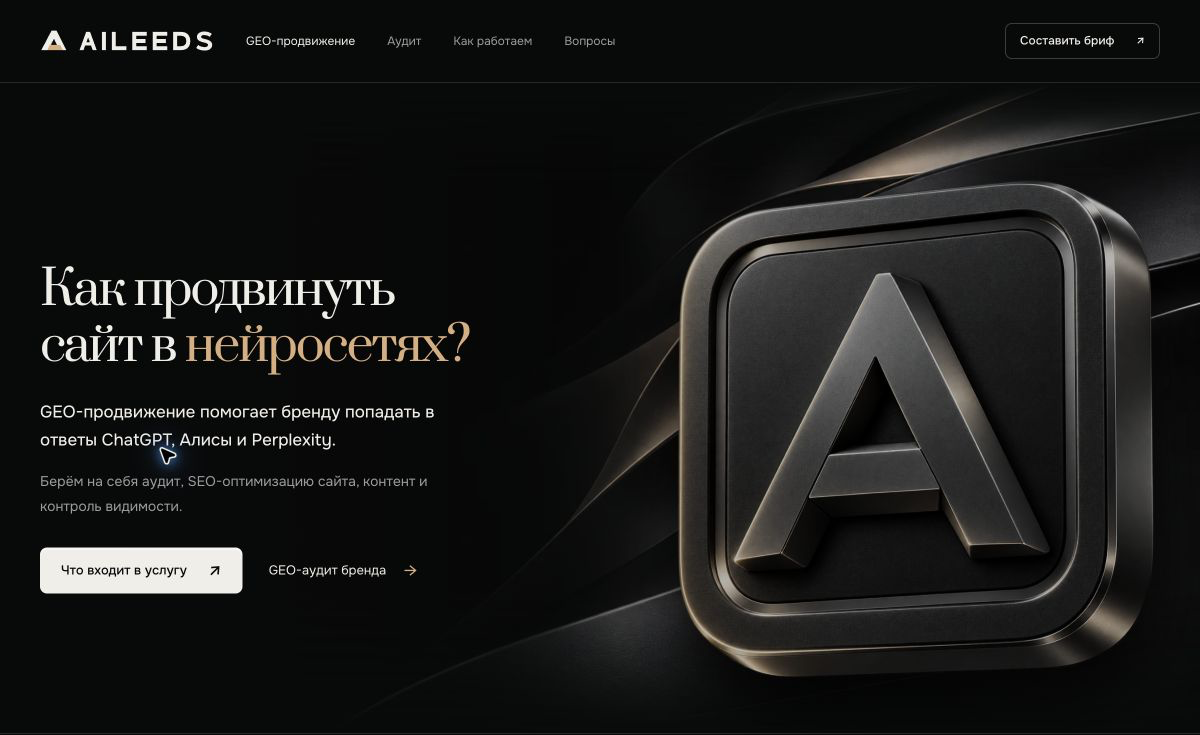
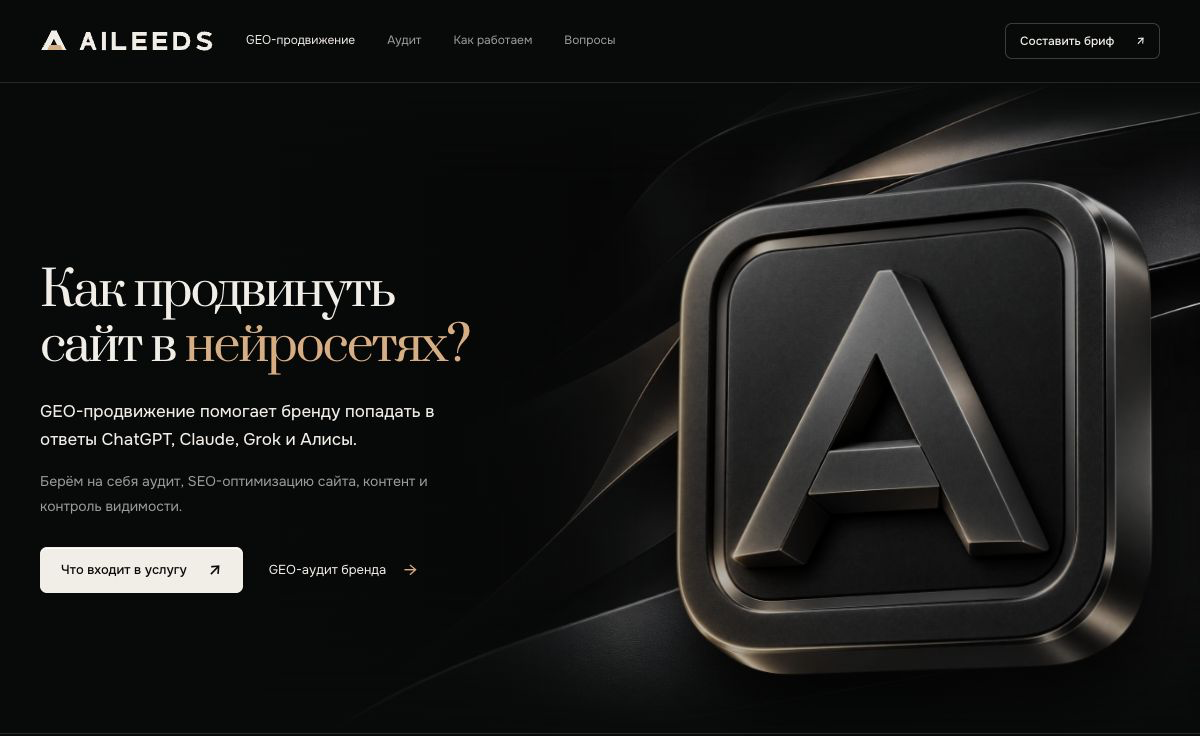
fix(site): Replace Perplexity with Claude and Grok
Update platform marks, service copy, structured data and social previews.
Keep publication dates and refresh modification dates on the changed service pages.

diff --git a/index.html b/index.html
@@ -3,14 +3,14 @@
   <head>
     <meta charset="utf-8" />
     <meta name="datePublished" content="2026-10-07" />
-    <meta name="dateModified" content="2026-11-02" />
+    <meta name="dateModified" content="2026-11-04" />
     <link rel="describedby" href="https://egi411.github.io/geo-audit/llms.txt" type="text/plain" />
     <meta name="author" content="Редакция AiLeeds" />
     <meta name="viewport" content="width=device-width,initial-scale=1" />
     <title>Как продвинуть сайт в нейросетях? GEO | AiLeeds</title>
     <meta
       name="description"
-      content="GEO-продвижение сайта и бренда в ChatGPT, Алисе, Perplexity и AI-поиске. Аудит, SEO-оптимизация, экспертный контент, источники и мониторинг видимости — AiLeeds."
+      content="GEO-продвижение сайта и бренда в ChatGPT, Claude, Grok, Алисе и AI-поиске. Аудит, SEO-оптимизация, экспертный контент, источники и мониторинг видимости — AiLeeds."
     />
     <meta name="theme-color" content="#080909" />
     <meta name="robots" content="index,follow,max-image-preview:large" />
@@ -21,7 +21,7 @@
     />
     <meta
       property="og:description"
-      content="GEO-продвижение сайта и бренда в ChatGPT, Алисе, Perplexity и AI-поиске. Аудит, SEO-оптимизация, экспертный контент, источники и мониторинг видимости — AiLeeds."
+      content="GEO-продвижение сайта и бренда в ChatGPT, Claude, Grok, Алисе и AI-поиске. Аудит, SEO-оптимизация, экспертный контент, источники и мониторинг видимости — AiLeeds."
     />
     <meta property="og:type" content="website" />
     <meta property="og:locale" content="ru_RU" />
@@ -29,7 +29,7 @@
     <meta property="og:url" content="https://egi411.github.io/geo-audit/" />
     <meta
       property="og:image"
-      content="https://egi411.github.io/geo-audit/assets/social.png?v=ec5293cd07e1"
+      content="https://egi411.github.io/geo-audit/assets/social.png?v=842f07d34e5e"
     />
     <meta name="twitter:card" content="summary_large_image" />
     <link
@@ -64,14 +64,14 @@
             "@id": "https://egi411.github.io/geo-audit/#page",
             "url": "https://egi411.github.io/geo-audit/",
             "name": "Как продвинуть сайт в нейросетях? GEO | AiLeeds",
-            "description": "GEO-продвижение сайта и бренда в ChatGPT, Алисе, Perplexity и AI-поиске. Аудит, SEO-оптимизация, экспертный контент, источники и мониторинг видимости — AiLeeds.",
+            "description": "GEO-продвижение сайта и бренда в ChatGPT, Claude, Grok, Алисе и AI-поиске. Аудит, SEO-оптимизация, экспертный контент, источники и мониторинг видимости — AiLeeds.",
             "inLanguage": "ru-RU",
             "isPartOf": {
               "@id": "https://egi411.github.io/geo-audit/#website"
             },
             "author": { "@id": "https://egi411.github.io/geo-audit/#org" },
             "publisher": { "@id": "https://egi411.github.io/geo-audit/#org" },
-            "dateModified": "2026-11-02",
+            "dateModified": "2026-11-04",
             "datePublished": "2026-10-07"
           },
           {
@@ -79,7 +79,7 @@
             "name": "GEO-продвижение сайта и бренда",
             "url": "https://egi411.github.io/geo-audit/",
             "serviceType": "Generative Engine Optimization",
-            "description": "GEO-продвижение сайта и бренда в ChatGPT, Алисе, Perplexity и AI-поиске. Аудит, SEO-оптимизация, экспертный контент, источники и мониторинг видимости — AiLeeds.",
+            "description": "GEO-продвижение сайта и бренда в ChatGPT, Claude, Grok, Алисе и AI-поиске. Аудит, SEO-оптимизация, экспертный контент, источники и мониторинг видимости — AiLeeds.",
             "provider": { "@id": "https://egi411.github.io/geo-audit/#org" }
           },
           {
@@ -195,8 +195,8 @@
           <div class="hero-copy">
             <h1>Как продвинуть<br />сайт в <span>нейросетях?</span></h1>
             <p class="short-answer">
-              GEO-продвижение помогает бренду попадать в ответы ChatGPT, Алисы и
-              Perplexity.
+              GEO-продвижение помогает бренду попадать в ответы ChatGPT, Claude,
+              Grok и Алисы.
             </p>
             <p class="lead">
               Берём на себя аудит, SEO-оптимизацию сайта, контент и контроль
@@ -241,12 +241,21 @@
             ><span class="model-name"
               ><img
                 class="brand-mark"
-                src="assets/brands/perplexity.svg"
+                src="assets/brands/claude.svg"
                 width="28"
                 height="28"
-                alt="Логотип Perplexity"
+                alt="Логотип Claude"
                 aria-hidden="true"
-              /><span>Perplexity</span></span
+              /><span>Claude</span></span
+            ><span class="model-name"
+              ><img
+                class="brand-mark brand-mono"
+                src="assets/brands/grok.svg"
+                width="28"
+                height="28"
+                alt="Логотип Grok"
+                aria-hidden="true"
+              /><span>Grok</span></span
             ><span class="model-name"
               ><img
                 class="brand-mark"
@@ -511,21 +520,29 @@
                   aria-hidden="true"
                 /><img
                   class="brand-mark"
-                  src="assets/brands/perplexity.svg"
+                  src="assets/brands/claude.svg"
                   width="28"
                   height="28"
-                  alt="Логотип Perplexity"
+                  alt="Логотип Claude"
+                  aria-hidden="true"
+                /><img
+                  class="brand-mark brand-mono"
+                  src="assets/brands/grok.svg"
+                  width="28"
+                  height="28"
+                  alt="Логотип Grok"
                   aria-hidden="true"
                 />
               </div>
-              <h3>Как работать с ChatGPT и Perplexity?</h3>
+              <h3>Как продвигать бренд в ChatGPT, Claude и Grok?</h3>
               <p class="short-answer">
-                Разбирать рекомендации, цитируемые страницы и вопросы
-                покупателей.
+                Проверять упоминания бренда, рекомендации и ответы на
+                вопросы покупателей.
               </p>
               <p>
-                Выявляем страницы, на которые ссылаются ассистенты, и вопросы,
-                по которым бренд отсутствует в рекомендациях.
+                Находим запросы, по которым бренд отсутствует или описан
+                неточно. Если ответ содержит ссылки, анализируем источники
+                и готовим изменения для страниц сайта.
               </p>
             </article>
             <article class="platform-card reveal">
@@ -852,7 +869,7 @@
             >Сайт опубликован
             <time itemprop="datePublished" datetime="2026-10-07">7 октября 2026</time></span
           ><span
-            >Обновлено <time itemprop="dateModified" datetime="2026-11-02">2 ноября 2026</time></span
+            >Обновлено <time itemprop="dateModified" datetime="2026-11-04">4 ноября 2026</time></span
           >
         </div>
         <div class="footer-bottom">

diff --git a/audit/index.html b/audit/index.html
@@ -3,7 +3,7 @@
   <head>
     <meta charset="utf-8" />
     <meta name="datePublished" content="2026-11-02" />
-    <meta name="dateModified" content="2026-11-02" />
+    <meta name="dateModified" content="2026-11-04" />
     <link rel="describedby" href="https://egi411.github.io/geo-audit/llms.txt" type="text/plain" />
     <meta name="author" content="Редакция AiLeeds" />
     <meta name="viewport" content="width=device-width,initial-scale=1" />
@@ -32,7 +32,7 @@
     />
     <meta
       property="og:image"
-      content="https://egi411.github.io/geo-audit/assets/social.png?v=ec5293cd07e1"
+      content="https://egi411.github.io/geo-audit/assets/social.png?v=842f07d34e5e"
     />
     <meta name="twitter:card" content="summary_large_image" />
     <link
@@ -74,7 +74,7 @@
             },
             "author": { "@id": "https://egi411.github.io/geo-audit/#org" },
             "publisher": { "@id": "https://egi411.github.io/geo-audit/#org" },
-            "dateModified": "2026-11-02",
+            "dateModified": "2026-11-04",
             "dateCreated": "2026-11-01",
             "datePublished": "2026-11-02"
           },
@@ -102,7 +102,7 @@
                 "name": "Какие нейросети вы проверяете?",
                 "acceptedAnswer": {
                   "@type": "Answer",
-                  "text": "Набор согласуем под рынок и аудиторию: например, ChatGPT, Perplexity, Gemini, Алису и GigaChat. В отчёте фиксируем доступные версии и режимы. Цитаты и домены собираем только там, где они действительно показаны."
+                  "text": "Набор согласуем под рынок и аудиторию: например, ChatGPT, Claude, Grok, Gemini, Алису и GigaChat. В отчёте фиксируем доступные версии и режимы. Цитаты и домены собираем только там, где они действительно показаны."
                 }
               },
               {
@@ -256,7 +256,7 @@
               Карту видимости сайта и бренда, ошибки в ответах и план изменений.
             </p>
             <p class="lead">
-              Сравним ответы ChatGPT, Алисы и Perplexity по запросам ваших
+              Сравним ответы ChatGPT, Claude, Grok и Алисы по запросам ваших
               клиентов. Передадим отчёт вместе с исходными ответами.
             </p>
             <div class="actions">
@@ -298,12 +298,21 @@
             ><span class="model-name"
               ><img
                 class="brand-mark"
-                src="../assets/brands/perplexity.svg"
+                src="../assets/brands/claude.svg"
                 width="28"
                 height="28"
-                alt="Логотип Perplexity"
+                alt="Логотип Claude"
                 aria-hidden="true"
-              /><span>Perplexity</span></span
+              /><span>Claude</span></span
+            ><span class="model-name"
+              ><img
+                class="brand-mark brand-mono"
+                src="../assets/brands/grok.svg"
+                width="28"
+                height="28"
+                alt="Логотип Grok"
+                aria-hidden="true"
+              /><span>Grok</span></span
             ><span class="model-name"
               ><img
                 class="brand-mark"
@@ -716,7 +725,7 @@
               <summary>Какие нейросети вы проверяете?</summary>
               <p>
                 Набор согласуем под рынок и аудиторию: например, ChatGPT,
-                Perplexity, Gemini, Алису и GigaChat. В отчёте фиксируем
+                Claude, Grok, Gemini, Алису и GigaChat. В отчёте фиксируем
                 доступные версии и режимы. Цитаты и домены собираем только там,
                 где они действительно показаны.
               </p>
@@ -854,7 +863,7 @@
           ><span
             >Опубликовано <time itemprop="datePublished" datetime="2026-11-02">2 ноября 2026</time></span
           ><span
-            >Обновлено <time itemprop="dateModified" datetime="2026-11-02">2 ноября 2026</time></span
+            >Обновлено <time itemprop="dateModified" datetime="2026-11-04">4 ноября 2026</time></span
           >
         </div>
         <div class="footer-bottom">

diff --git a/consent.html b/consent.html
@@ -35,7 +35,7 @@
     />
     <meta
       property="og:image"
-      content="https://egi411.github.io/geo-audit/assets/social.png?v=ec5293cd07e1"
+      content="https://egi411.github.io/geo-audit/assets/social.png?v=842f07d34e5e"
     />
     <meta name="twitter:card" content="summary_large_image" />
     <link

diff --git a/contacts.html b/contacts.html
@@ -35,7 +35,7 @@
     />
     <meta
       property="og:image"
-      content="https://egi411.github.io/geo-audit/assets/social.png?v=ec5293cd07e1"
+      content="https://egi411.github.io/geo-audit/assets/social.png?v=842f07d34e5e"
     />
     <meta name="twitter:card" content="summary_large_image" />
     <link

diff --git a/privacy.html b/privacy.html
@@ -35,7 +35,7 @@
     />
     <meta
       property="og:image"
-      content="https://egi411.github.io/geo-audit/assets/social.png?v=ec5293cd07e1"
+      content="https://egi411.github.io/geo-audit/assets/social.png?v=842f07d34e5e"
     />
     <meta name="twitter:card" content="summary_large_image" />
     <link

diff --git a/design.md b/design.md
@@ -25,7 +25,7 @@
 
 Исследование публичной выдачи 02.11.2026; частотности не измерялись. Не выдавать запросы за данные Wordstat.
 
-- Главная: GEO-продвижение, продвижение в нейросетях, GEO-продвижение сайта, продвижение бренда в ИИ, GEO-оптимизация, AI SEO, продвижение в ChatGPT, продвижение в Алисе, продвижение в Perplexity, оптимизация под нейросети, агентство GEO-продвижения. Информационные подтемы: GEO и SEO, GEO и AEO, как попасть в ответы нейросетей, что входит в продвижение, мониторинг AI-видимости.
+- Главная: GEO-продвижение, продвижение в нейросетях, GEO-продвижение сайта, продвижение бренда в ИИ, GEO-оптимизация, AI SEO, продвижение в ChatGPT, продвижение в Алисе, продвижение в Claude, продвижение в Grok, оптимизация под нейросети, агентство GEO-продвижения. Информационные подтемы: GEO и SEO, GEO и AEO, как попасть в ответы нейросетей, что входит в продвижение, мониторинг AI-видимости.
 - /audit/: GEO-аудит, GEO-аудит сайта и бренда, аудит видимости в нейросетях, анализ упоминаний бренда, анализ AI-видимости, проверка бренда в ChatGPT, репутация в ответах ИИ, источники ответов, сравнение с конкурентами, отчёт GEO-аудита.
 - Не создавать отдельные дубли под вариации одной фразы. Главная продаёт внедрение; аудит продаёт исследование.
 - Первичные источники семантических формулировок: https://texterra.ru/services/geo-prodvizhenie-sayta-v-neyrosetyakh/, https://pixelplus.ru/geo/geo-audit/, https://atwinta.ru/services/prodvizhenie/geo/, https://4px.ru/uslugi/geo-prodvizhenie/. Используются для анализа поискового намерения, не копирования офферов и результатов.
@@ -65,7 +65,7 @@
 ## Брендинг и редактура
 
 - Основной логотип AILEEDS — оригинальный SVG с контурными буквами, без растровых фрагментов и внешних шрифтов. Светлый мастер: assets/aileeds-logo.svg; тёмная версия: assets/aileeds-logo-dark.svg; favicon: assets/mark.svg.
-- Логотипы платформ использовать из SVG-файлов, а не заменять Unicode-символами. OpenAI/ChatGPT, Perplexity и Gemini: Lobe Icons 1.102.0, MIT; Алиса и GigaChat — официальные файлы сервисов. Лицензия и источники лежат рядом с ассетами.
+- Логотипы платформ использовать из SVG-файлов, а не заменять Unicode-символами. OpenAI/ChatGPT, Claude, Grok и Gemini: Lobe Icons 1.102.0, MIT; Алиса и GigaChat — официальные файлы сервисов. Лицензия и источники лежат рядом с ассетами.
 - Постоянное правило владельца: удалять информацию, не полезную ни клиенту, ни SEO. Сохранять конкретные офферы, состав и результаты услуги, ограничения методики, полезные FAQ и обязательные сведения о данных. Удалять повторы между кратким ответом и следующим абзацем, дублирующие списки, служебные объяснения, фальшивые примеры и декоративные текстовые блоки.
 - Не превращать краткий ответ и раскрытие в два пересказа одной фразы: после ответа нужны конкретные детали.
 
@@ -74,3 +74,5 @@
 - Основной файл для страниц проекта: https://egi411.github.io/geo-audit/llms.txt. Все страницы ссылаются на него через link rel="describedby".
 - Для проверок по origin (включая ANNEXX SEO ID) копия доступна по https://egi411.github.io/llms.txt из отдельного репозитория egi411/egi411.github.io. При изменении сведений синхронизировать обе копии. Основной сайт остаётся в /geo-audit/.
 - datePublished и dateModified согласованы в JSON-LD, одноимённых HTML meta и видимых time с itemprop в области WebPage/ContactPage. Сохранять подтверждённую первую дату публикации; не подменять услуги статьями ради проверки расширения.
+
+- 04.11.2026: по решению владельца добавлены Claude и Grok, Perplexity исключён из представленного набора платформ. Синхронизировать логотипы, тексты, метаданные и социальное превью.
